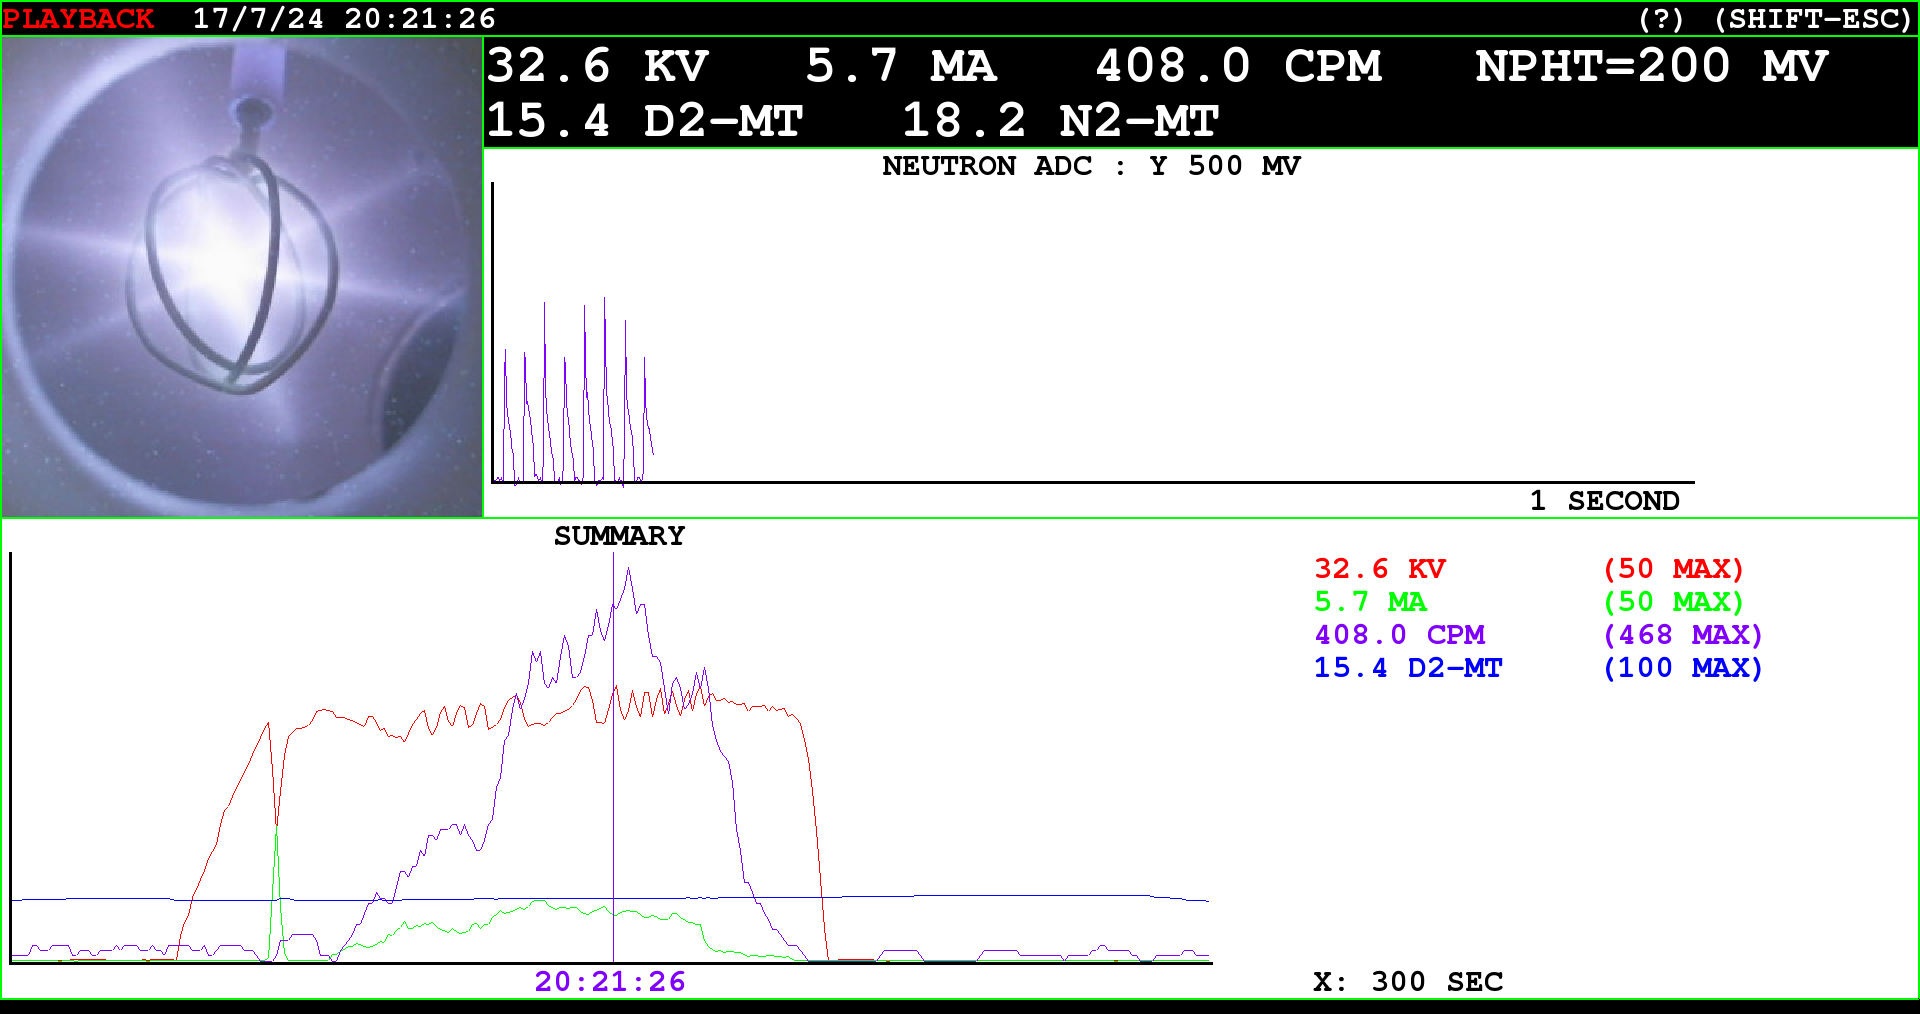
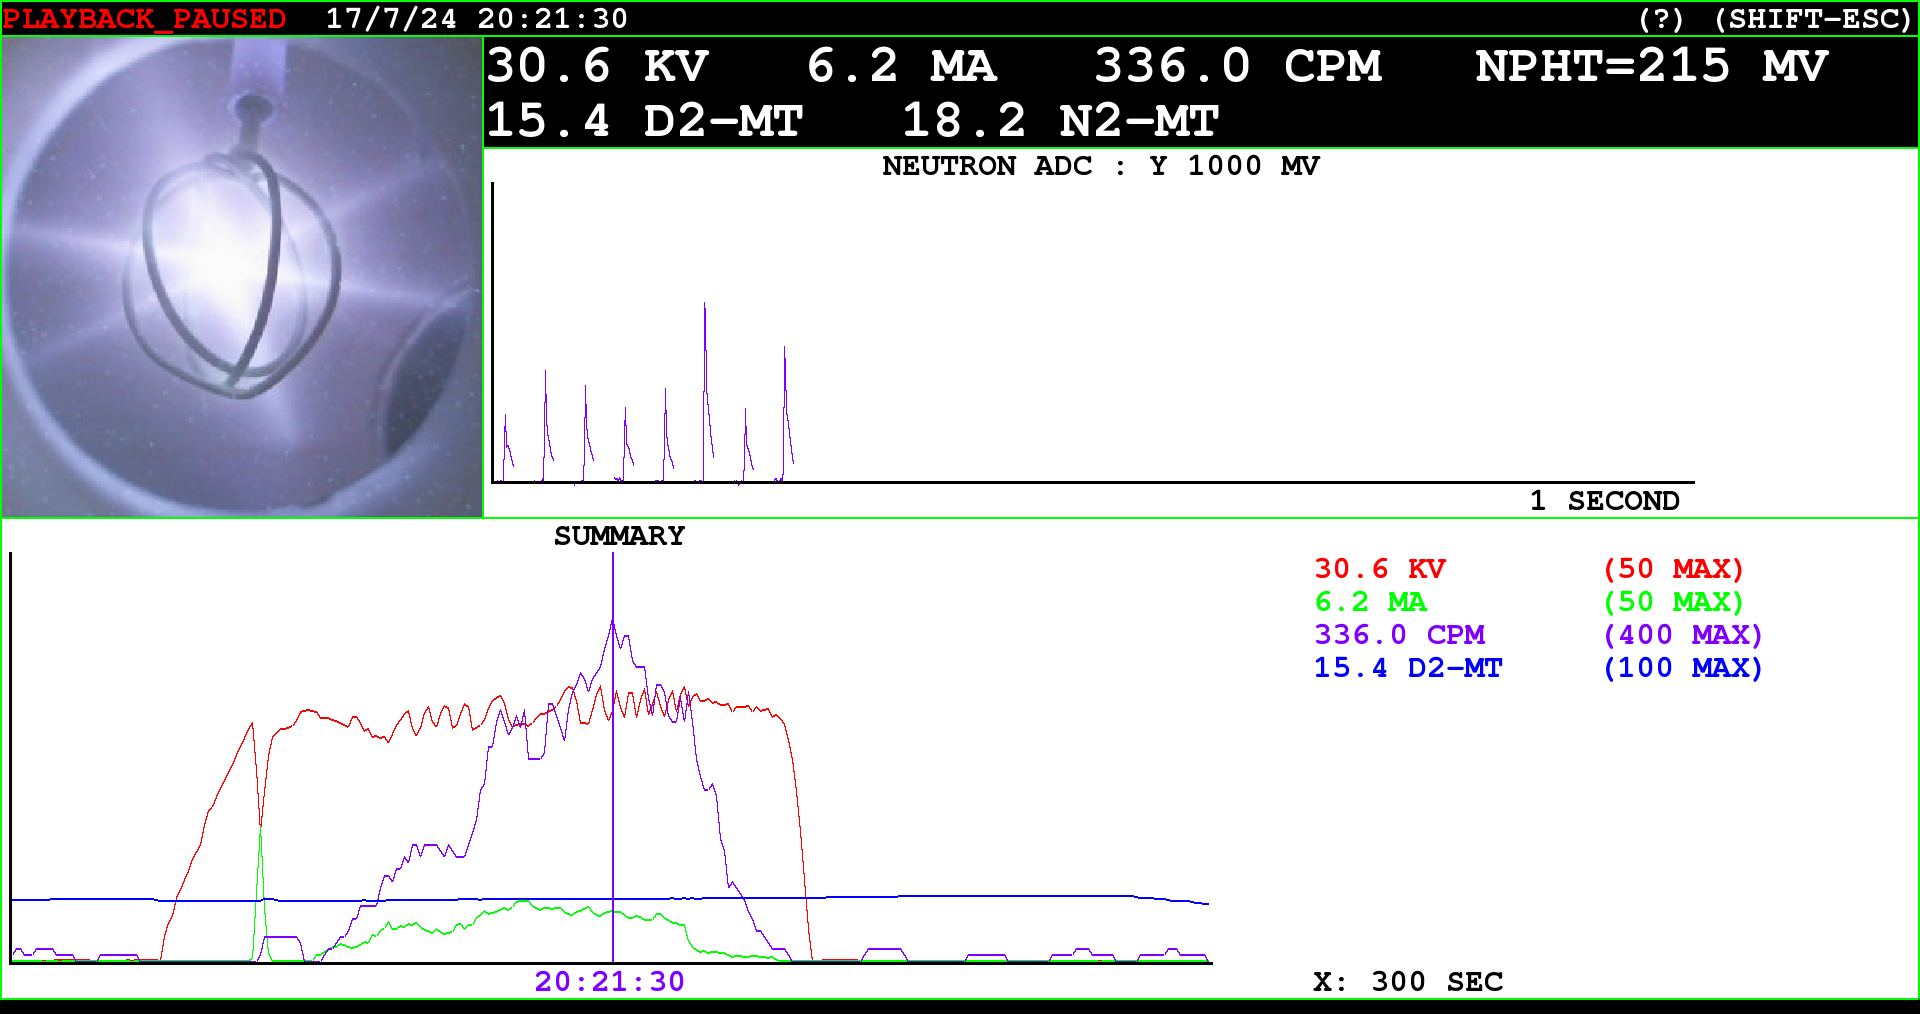
improve playback mode so that it can either be paused (as it is currently), or can automatically playback

diff --git a/display.c b/display.c
@@ -20,6 +20,8 @@ OUT OF OR IN CONNECTION WITH THE SOFTWARE OR THE USE OR OTHER DEALINGS IN THE
 SOFTWARE.
 */
 
+// XXX needs comment about keyboard
+
 #define _FILE_OFFSET_BITS 64
 
 #include <stdio.h>
@@ -548,6 +550,7 @@ static int32_t initialize(int32_t argc, char ** argv)
             ERROR("no data in file %s (0x%"PRIx64"\n", filename, file_data_part1[0].magic);
             return -1;
         }
+        // XXX needs work
         file_idx_global = file_idx_playback_init;
         if (file_idx_global < 0 || file_idx_global >= file_hdr->max) {
             file_idx_global = 0;
@@ -950,6 +953,13 @@ static void * cam_thread(void * cx)
 
 static int32_t display_handler(void)
 {
+    #define MAX_PLAYBACK_SPEED 5
+    #define SET_PLAYBACK_PAUSED \
+        do { \
+            playback_speed = 0; \
+            playback_advance_us = 0; \
+        } while (0)
+
     bool          quit;
     sdl_event_t * event;
     rect_t        title_pane_full, title_pane; 
@@ -966,6 +976,8 @@ static int32_t display_handler(void)
     bool          lost_connection_msg_is_displayed;
     bool          file_error_msg_is_displayed;
     bool          time_error_msg_is_displayed;
+    int32_t       playback_speed;
+    uint64_t      playback_advance_us;
 
     // initializae 
     quit = false;
@@ -973,6 +985,8 @@ static int32_t display_handler(void)
     lost_connection_msg_is_displayed = false;
     file_error_msg_is_displayed = false;
     time_error_msg_is_displayed = false;
+    playback_speed = 0;
+    playback_advance_us = 0;
 
     if (sdl_init(win_width, win_height, screenshot_prefix) < 0) {
         ERROR("sdl_init %dx%d failed\n", win_width, win_height);
@@ -1025,10 +1039,23 @@ static int32_t display_handler(void)
         sdl_render_pane_border(&adc_data_graph_pane_full, GREEN);
 
         // draw title line
+        // 
+        // 0         1         2         3         4         5         6         7        
+        // 0123456789 123456789 123456789 123456789 123456789 123456789 123456789 
+        // PLAYBACK_PAUSED  yy/mm/dd hh:mm:ss  LOST_CONN    FILE_ERROR   TIME_ERROR    ...  (?) (SHIFT-ESC)
+        // ^                ^                  ^            ^            ^                  ^   ^         ^
+        // 0                17                 36           49           62                -15  -11       -1
+
         if (mode == LIVE) {
             sdl_render_text(&title_pane, 0, 0, 0, "LIVE", GREEN, BLACK);
         } else {
-            sdl_render_text(&title_pane, 0, 0, 0, "PLAYBACK", RED, BLACK);
+            char playback_mode_str[50];
+            if (playback_speed == 0) {
+                sprintf(playback_mode_str, "PLAYBACK_PAUSED");
+            } else {
+                sprintf(playback_mode_str, "PLAYBACK_X%d", playback_speed);
+            }
+            sdl_render_text(&title_pane, 0, 0, 0, playback_mode_str, RED, BLACK);
         }
             
         t = file_data_part1[file_idx].time;
@@ -1036,10 +1063,10 @@ static int32_t display_handler(void)
         sprintf(str, "%d/%d/%d %2.2d:%2.2d:%2.2d",
                 tm->tm_year-100, tm->tm_mon+1, tm->tm_mday,
                 tm->tm_hour, tm->tm_min, tm->tm_sec);
-        sdl_render_text(&title_pane, 0, 10, 0, str, WHITE, BLACK);
+        sdl_render_text(&title_pane, 0, 17, 0, str, WHITE, BLACK);
 
         if (lost_connection) {
-            sdl_render_text(&title_pane, 0, 35, 0, "LOST_CONN", RED, BLACK);
+            sdl_render_text(&title_pane, 0, 36, 0, "LOST_CONN", RED, BLACK);
             lost_connection_msg_is_displayed = true;
         } else {
             lost_connection_msg_is_displayed = false;
@@ -1053,7 +1080,7 @@ static int32_t display_handler(void)
         }
 
         if (time_error) {
-            sdl_render_text(&title_pane, 0, 63, 0, "TIME_ERROR", RED, BLACK);
+            sdl_render_text(&title_pane, 0, 62, 0, "TIME_ERROR", RED, BLACK);
             time_error_msg_is_displayed = true;
         } else {
             time_error_msg_is_displayed = false;
@@ -1103,6 +1130,10 @@ static int32_t display_handler(void)
         sdl_event_register('4', SDL_EVENT_TYPE_KEY, NULL);
         sdl_event_register('5', SDL_EVENT_TYPE_KEY, NULL);                           // adjust neutron summary graph scale
         sdl_event_register('6', SDL_EVENT_TYPE_KEY, NULL);
+        sdl_event_register('>', SDL_EVENT_TYPE_KEY, NULL);                           // playback speed control
+        sdl_event_register('<', SDL_EVENT_TYPE_KEY, NULL);
+        sdl_event_register(',', SDL_EVENT_TYPE_KEY, NULL);
+        sdl_event_register('.', SDL_EVENT_TYPE_KEY, NULL);
 
         // present the display
         sdl_display_present();
@@ -1133,10 +1164,11 @@ static int32_t display_handler(void)
                 sdl_display_init();
                 sdl_render_fill_rect(&screen_pane, &rect, WHITE);
                 sdl_display_present();
-                usleep(1000000);
+                usleep(250000);
                 break; }
             case '?':  
                 sdl_display_text(about);
+                SET_PLAYBACK_PAUSED;
                 break;
             case SDL_EVENT_KEY_LEFT_ARROW:
             case SDL_EVENT_KEY_CTRL_LEFT_ARROW:
@@ -1150,6 +1182,7 @@ static int32_t display_handler(void)
                 }
                 file_idx_global = x;
                 mode = PLAYBACK;
+                SET_PLAYBACK_PAUSED;
                 break; }
             case SDL_EVENT_KEY_RIGHT_ARROW:
             case SDL_EVENT_KEY_CTRL_RIGHT_ARROW:
@@ -1166,14 +1199,17 @@ static int32_t display_handler(void)
                     file_idx_global = x;
                     mode = PLAYBACK;
                 }
+                SET_PLAYBACK_PAUSED;
                 break; }
             case SDL_EVENT_KEY_HOME:
                 file_idx_global = 0;
                 mode = PLAYBACK;
+                SET_PLAYBACK_PAUSED;
                 break;
             case SDL_EVENT_KEY_END:
                 file_idx_global = file_hdr->max - 1;
                 mode = initial_mode;
+                SET_PLAYBACK_PAUSED;
                 break;
             case '-': case '+': case '=':
                 draw_summary_graph_control(event->event);
@@ -1222,12 +1258,44 @@ static int32_t display_handler(void)
                     }
                 } 
                 break; }
+            case '>': case '.':
+                if (mode == PLAYBACK && playback_speed < MAX_PLAYBACK_SPEED) {
+                    playback_speed++;
+                    playback_advance_us = microsec_timer() + 1000000 / playback_speed;
+                }
+                break;
+            case '<': case ',':
+                if (mode == PLAYBACK && playback_speed > 0) {
+                    playback_speed--;
+                    playback_advance_us = (playback_speed ? microsec_timer() + 1000000 / playback_speed : 0);
+                }
+                break;
+            case SDL_EVENT_WIN_MINIMIZED:
+                SET_PLAYBACK_PAUSED;
+                break;
             case SDL_EVENT_WIN_SIZE_CHANGE:
             case SDL_EVENT_WIN_RESTORED:
                 break;
             default:
                 event_processed_count--;
                 break;
+            }
+
+            // if in playback run mode then
+            // check if it is time to increment file_idx_global
+            if (mode == PLAYBACK && playback_speed > 0) {
+                uint64_t curr_us = microsec_timer();
+                if (curr_us > playback_advance_us) {
+                    int32_t x = file_idx_global+1;
+                    if (x >= file_hdr->max) {
+                        file_idx_global = file_hdr->max - 1;
+                        mode = initial_mode;
+                        SET_PLAYBACK_PAUSED;
+                    } else {
+                        file_idx_global = x;
+                        playback_advance_us = curr_us + 1000000 / playback_speed;
+                    }
+                }
             }
 
             // test if should break out of this loop

diff --git a/util_sdl.c b/util_sdl.c
@@ -593,6 +593,10 @@ sdl_event_t * sdl_poll_event(void)
                     possible_event = '+';
                 } else if (possible_event == '/') {
                     possible_event = '?';
+                } else if (possible_event == ',') {
+                    possible_event = '<';
+                } else if (possible_event == '.') {
+                    possible_event = '>';
                 } else if (possible_event == SDL_EVENT_KEY_ESC) {
                     possible_event = SDL_EVENT_KEY_SHIFT_ESC;
                 }
@@ -756,6 +760,7 @@ static void print_screen(void)
     }
 
     // create file 
+    INFO("creating screenshot %s\n", file_name);
     fp = fopen(file_name, "wb");
     if (!fp) {
         ERROR("fopen %s\n", file_name);

diff --git a/about.h b/about.h
@@ -37,6 +37,7 @@ Keyboard Controls:\n\
   'r'                    : Camera Pan/Zoom Reset \n\
   '3', '4'               : Change Neutron Pulse Height Threshold\n\
   '5', '6'               : Change Neutron CPM Summary Graph Scale\n\
+  '>', '<'               : Set Playback Speed\n\
 \n\
   (*) Use Ctl or Alt with Left/Right Arrow to increase response\n\
 \n\
